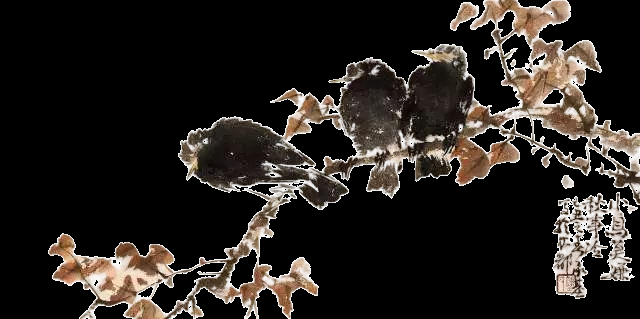
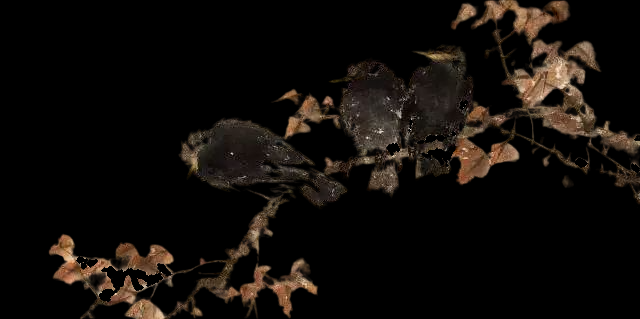
修改AesFA的test文件, 使其对风格图像进行处理时, 将透明背景变成黑色背景, 而非白色背景

Changed region(s): [[0.0625, 0.0, 1.0, 1.0], [0.2812, 0.3668, 0.4062, 0.5643], [0.0625, 0.8464, 0.0938, 0.8746]]

diff --git a/3_code_area/code_papers/AesFA/DataSplit.py b/3_code_area/code_papers/AesFA/DataSplit.py
@@ -10,6 +10,7 @@ import torch.nn as nn
 from PIL import Image
 from torchvision.transforms import ToTensor, Compose, Resize, Normalize, RandomCrop
 import random
+import numpy as np
 
 Image.MAX_IMAGE_PIXELS = 1000000000
 
@@ -83,7 +84,6 @@ class DataSplit(nn.Module):
         
         print('content dir:', img_dir)
         print('style dir:', sty_dir)
-            
     def __len__(self):
         """
         返回内容数据集中的图像数量, 风格数据集中的数量需要与这个值保持一致
@@ -109,7 +109,7 @@ class DataSplit(nn.Module):
         cont_img = Image.open(cont_img).convert('RGB') # 使用PIL中Image包以RGB的模式打开对应的内容图像
 
         sty_img = self.style_images[index]# 从 self.style_images 列表中获取对应编号的风格图片名称
-        sty_img = Image.open(sty_img).convert(mode='RGB',colors=0) # 使用PIL中Image包以RGB的模式打开对应的风格图像
+        sty_img = Image.open(sty_img).convert(mode='RGB') # 使用PIL中Image包以RGB的模式打开对应的风格图像
         sty_img = self.transform(sty_img) # 使用定义的Transform模块处理图像, 包括Resize, RandomCrop, ToTensor与Normalize
 
         img_dict: Dict[str, Image.Image] = {'content_img': cont_img, 'style_img': sty_img} # 返回一个字典

diff --git a/3_code_area/code_papers/AesFA/test.py b/3_code_area/code_papers/AesFA/test.py
@@ -11,9 +11,33 @@ from DataSplit import DataSplit
 from model import AesFA_test
 from blocks import test_model_load
 
+def make_transparent_black(img):
+    """
+    将PNG图像中的透明部分变成黑色。
+
+    img_path_name: str, 输入图像路径, 需要包含文件名
+    
+    save_path_name: str, 输出图像保存路径, 需要包含文件名. 如果不填则不会保存图像, 一般用于测试该函数.
+    """
+    # 读取图像并转换为RGBA
+    img_array = np.array(img)
+
+    # 获取alpha通道
+    alpha_channel = img_array[:, :, 3]
+
+    # 创建一个新的图像数组，透明部分变成黑色
+    new_img_array = np.copy(img_array)
+    new_img_array[:, :, :3][alpha_channel == 0] = [0, 0, 0]  # 将透明部分的RGB值设置为黑色
+    new_img_array[:,:,3][alpha_channel==0]=255
+
+    # 转换为PIL图像
+    result_image = Image.fromarray(new_img_array, "RGBA").convert("RGB")
+
+    return result_image
 
 def load_img(img_name, img_size, device):
-    img = Image.open(img_name).convert('RGB')
+    img = Image.open(img_name).convert('RGBA')
+    img = make_transparent_black(img)
     img = do_transform(img, img_size).to(device)
     if len(img.shape) == 3:
         img = img.unsqueeze(0)  # make batch dimension

diff --git a/3_code_area/code_papers/AesFA/Config.py b/3_code_area/code_papers/AesFA/Config.py
@@ -7,8 +7,8 @@ class Config:
 
     data_num = 60000        # Maximum # of training data
 
-    content_dir = '/mnt/sda/zxt/3_code_area/0_code_hello/test_metirc3d/outputs/03/merge'
-    style_dir = '/mnt/sda/zxt/3_code_area/code_papers/AesFA/img/birds_main_multi_black'
+    content_dir = '/mnt/sda/zxt/3_code_area/0_code_hello/test_metirc3d/outputs/cameraman/merge'
+    style_dir = '/mnt/sda/zxt/3_code_area/code_papers/AesFA/img/main_style'
     
     file_n = 'main'
     log_dir = './log/' + file_n
@@ -21,7 +21,7 @@ class Config:
         test_style_size = 256
         content_dir = content_dir
         style_dir = style_dir
-        img_dir = './output/'+file_n+'/'+ '03'+'/'+ 'test4' + '/' + 'main'   #ouput dir, 代码会帮忙创建文件夹, 可以不用自己创建
+        img_dir = './output/'+file_n+'/'+ 'cameraman'+'/'+ 'test6' + '/' + 'main'   #ouput dir, 代码会帮忙创建文件夹, 可以不用自己创建
 
     elif phase == 'style_blending':
         blend_load_size = 256
